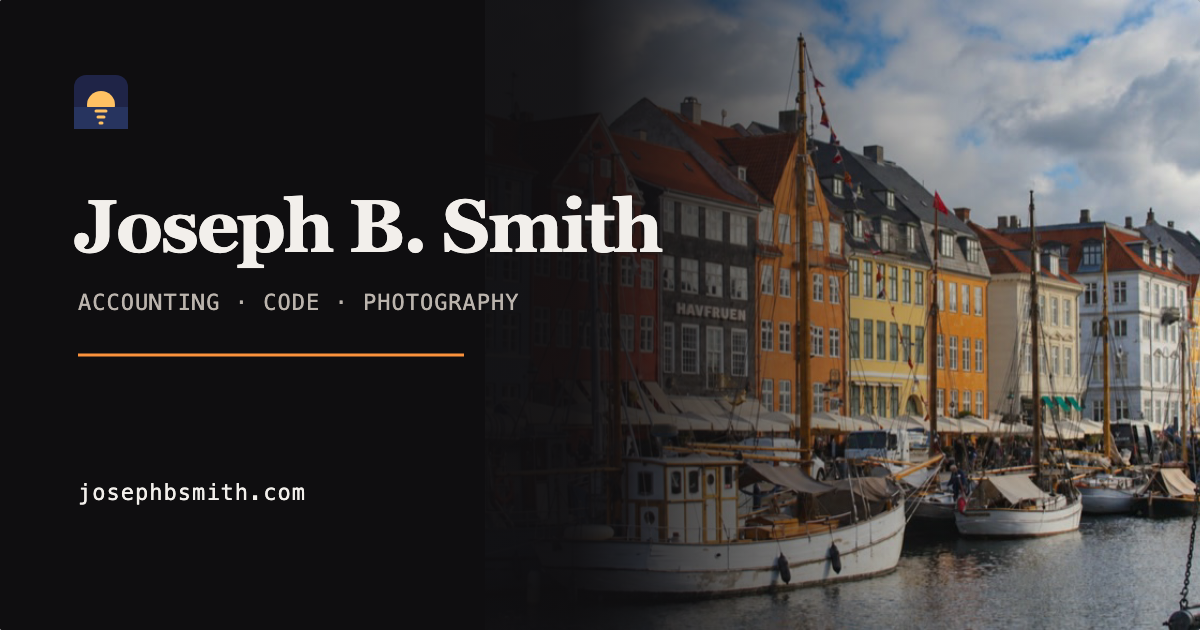
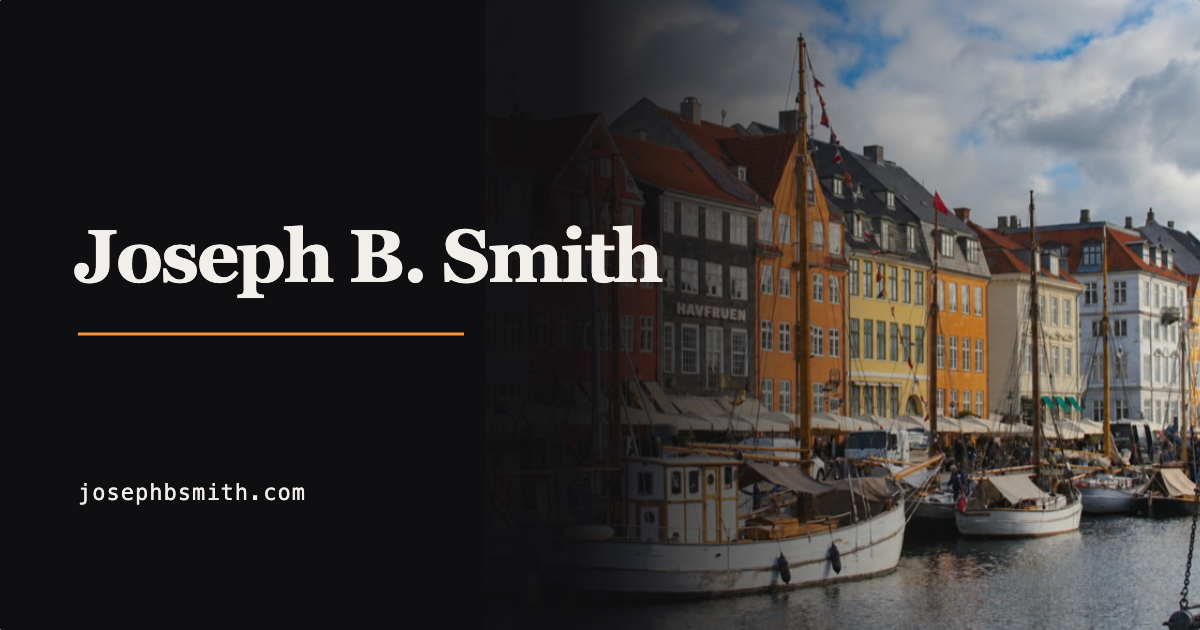
Simplify social preview card

Changed region(s): [[0.0617, 0.3016, 0.555, 0.573], [0.0617, 0.1206, 0.1233, 0.2111]]

diff --git a/ratetest.html b/ratetest.html
@@ -1,4 +1,4 @@
-<!doctype html><html lang="en"><head><meta charset="utf-8"><meta name="viewport" content="width=device-width,initial-scale=1"><title>RateTest - Joseph B. Smith</title><meta name="description" content="Executable, synthetic tests for payer-contract mathematics."><meta property="og:title" content="RateTest - Joseph B. Smith"><meta property="og:description" content="Executable, synthetic tests for payer-contract mathematics."><meta property="og:type" content="website"><meta property="og:url" content="https://josephbsmith.com/ratetest"><meta property="og:image" content="https://josephbsmith.com/og-card.png"><meta name="twitter:card" content="summary_large_image"><link rel="canonical" href="https://josephbsmith.com/ratetest"><link rel="stylesheet" href="/tool.css"><link rel="icon" href="/favicon.svg" type="image/svg+xml"><link rel="apple-touch-icon" href="/apple-touch-icon.png" sizes="180x180"><meta name="theme-color" content="#0f0e10"></head><body><main>
+<!doctype html><html lang="en"><head><meta charset="utf-8"><meta name="viewport" content="width=device-width,initial-scale=1"><title>RateTest - Joseph B. Smith</title><meta name="description" content="Executable, synthetic tests for payer-contract mathematics."><meta property="og:title" content="RateTest - Joseph B. Smith"><meta property="og:description" content="Executable, synthetic tests for payer-contract mathematics."><meta property="og:type" content="website"><meta property="og:url" content="https://josephbsmith.com/ratetest"><meta property="og:image" content="https://josephbsmith.com/og-card-formal.png"><meta name="twitter:card" content="summary_large_image"><link rel="canonical" href="https://josephbsmith.com/ratetest"><link rel="stylesheet" href="/tool.css"><link rel="icon" href="/favicon.svg" type="image/svg+xml"><link rel="apple-touch-icon" href="/apple-touch-icon.png" sizes="180x180"><meta name="theme-color" content="#0f0e10"></head><body><main>
 <a class="back" href="/code/">← code</a><h1>RateTest</h1><p class="tag">Payer-contract mathematics as executable tests</p><p class="lede">Choose a non-proprietary rate method, change the synthetic terms, and see the expected allowed amount with its calculation. The repository carries twenty conformance cases across five methods.</p>
 <h2>Try a case</h2><div class="grid"><label>Method<select id="method"><option value="case">Case rate</option><option value="diem" selected>Per diem</option><option value="percent">Percent of charge</option><option value="stop">Stop-loss add-on</option></select></label><label id="aLabel"><span>Daily rate ($)</span><input id="a" type="number" step="0.01" value="500"></label><label id="bLabel"><span>Days</span><input id="b" type="number" step="1" value="3"></label><label id="cLabel" hidden><span>Excess percentage</span><input id="c" type="number" step="0.01" value="0.5"></label></div><button id="calculate">Calculate</button><div class="panel"><span class="label">Expected allowed amount</span><span class="metric" id="allowed">$1,500.00</span><p id="rateSteps" class="status">3 days × $500.00</p></div>
 <h2>Run the conformance suite</h2><pre>python3 ratetest.py verify

diff --git a/workpaperdiff.html b/workpaperdiff.html
@@ -1,4 +1,4 @@
-<!doctype html><html lang="en"><head><meta charset="utf-8"><meta name="viewport" content="width=device-width,initial-scale=1"><title>WorkpaperDiff - Joseph B. Smith</title><meta name="description" content="Compare two Excel workpapers for accounting logic, not cell noise."><meta property="og:title" content="WorkpaperDiff - Joseph B. Smith"><meta property="og:description" content="Compare two Excel workpapers for accounting logic, not cell noise."><meta property="og:type" content="website"><meta property="og:url" content="https://josephbsmith.com/workpaperdiff"><meta property="og:image" content="https://josephbsmith.com/og-card.png"><meta name="twitter:card" content="summary_large_image"><link rel="canonical" href="https://josephbsmith.com/workpaperdiff"><link rel="stylesheet" href="/tool.css"><link rel="icon" href="/favicon.svg" type="image/svg+xml"><link rel="apple-touch-icon" href="/apple-touch-icon.png" sizes="180x180"><meta name="theme-color" content="#0f0e10"></head><body><main>
+<!doctype html><html lang="en"><head><meta charset="utf-8"><meta name="viewport" content="width=device-width,initial-scale=1"><title>WorkpaperDiff - Joseph B. Smith</title><meta name="description" content="Compare two Excel workpapers for accounting logic, not cell noise."><meta property="og:title" content="WorkpaperDiff - Joseph B. Smith"><meta property="og:description" content="Compare two Excel workpapers for accounting logic, not cell noise."><meta property="og:type" content="website"><meta property="og:url" content="https://josephbsmith.com/workpaperdiff"><meta property="og:image" content="https://josephbsmith.com/og-card-formal.png"><meta name="twitter:card" content="summary_large_image"><link rel="canonical" href="https://josephbsmith.com/workpaperdiff"><link rel="stylesheet" href="/tool.css"><link rel="icon" href="/favicon.svg" type="image/svg+xml"><link rel="apple-touch-icon" href="/apple-touch-icon.png" sizes="180x180"><meta name="theme-color" content="#0f0e10"></head><body><main>
 <a class="back" href="/code/">← code</a><h1>WorkpaperDiff</h1><p class="tag">What changed in the accounting logic?</p>
 <p class="lede">Ordinary spreadsheet diffs drown reviewers in changed values and formatting. WorkpaperDiff reads the XLSX package directly and elevates changes that matter to a close: formulas replaced by hardcodes, formula edits, stale dates, broken prior-period links, changed controls, and unexplained new rows.</p>
 <h2>A sample review</h2><div class="grid"><div class="panel"><span class="metric">7</span><span class="label">review findings</span></div><div class="panel"><span class="metric">2</span><span class="label">high-risk logic changes</span></div><div class="panel"><span class="metric">1</span><span class="label">presentation-only edit</span></div></div>

diff --git a/plusfive.html b/plusfive.html
@@ -1,4 +1,4 @@
-<!doctype html><html lang="en"><head><meta charset="utf-8"><meta name="viewport" content="width=device-width,initial-scale=1,viewport-fit=cover"><title>PlusFive - Joseph B. Smith</title><meta name="description" content="A private, offline logbook for the Starting Strength novice progression. Everything is stored on your device; nothing is uploaded."><meta property="og:title" content="PlusFive - Joseph B. Smith"><meta property="og:description" content="A private, offline logbook for the Starting Strength novice progression."><meta property="og:type" content="website"><meta property="og:url" content="https://josephbsmith.com/plusfive"><meta property="og:image" content="https://josephbsmith.com/og-card.png"><meta name="twitter:card" content="summary_large_image"><link rel="canonical" href="https://josephbsmith.com/plusfive"><link rel="stylesheet" href="/tool.css"><link rel="manifest" href="/plusfive.webmanifest"><link rel="icon" href="/plusfive-icon.png" type="image/png"><link rel="apple-touch-icon" href="/plusfive-icon.png"><meta name="theme-color" media="(prefers-color-scheme: light)" content="#0796c2"><meta name="theme-color" media="(prefers-color-scheme: dark)" content="#1b3d55"><style>
+<!doctype html><html lang="en"><head><meta charset="utf-8"><meta name="viewport" content="width=device-width,initial-scale=1,viewport-fit=cover"><title>PlusFive - Joseph B. Smith</title><meta name="description" content="A private, offline logbook for the Starting Strength novice progression. Everything is stored on your device; nothing is uploaded."><meta property="og:title" content="PlusFive - Joseph B. Smith"><meta property="og:description" content="A private, offline logbook for the Starting Strength novice progression."><meta property="og:type" content="website"><meta property="og:url" content="https://josephbsmith.com/plusfive"><meta property="og:image" content="https://josephbsmith.com/og-card-formal.png"><meta name="twitter:card" content="summary_large_image"><link rel="canonical" href="https://josephbsmith.com/plusfive"><link rel="stylesheet" href="/tool.css"><link rel="manifest" href="/plusfive.webmanifest"><link rel="icon" href="/plusfive-icon.png" type="image/png"><link rel="apple-touch-icon" href="/plusfive-icon.png"><meta name="theme-color" media="(prefers-color-scheme: light)" content="#0796c2"><meta name="theme-color" media="(prefers-color-scheme: dark)" content="#1b3d55"><style>
 /* Light blue-book palette with system typography and restrained app chrome. */
 :root{color-scheme:light;--bg:#b9e4f1;--fg:#142e3e;--muted:#567889;--rule:#8ccddd;--panel:#cfeef6;--client:#eaf7fb;--accent:#0796c2;--accent-dark:#066f91;--ui:-apple-system,BlinkMacSystemFont,"Segoe UI",Roboto,Helvetica,Arial,sans-serif}
 body{font:14px/1.45 var(--ui);padding:4vh 16px 8vh}

diff --git a/claimbench.html b/claimbench.html
@@ -1,4 +1,4 @@
-<!doctype html><html lang="en"><head><meta charset="utf-8"><meta name="viewport" content="width=device-width,initial-scale=1"><title>ClaimBench - Joseph B. Smith</title><meta name="description" content="Synthetic claim-to-cash accounting fixtures with authoritative expected states."><meta property="og:title" content="ClaimBench - Joseph B. Smith"><meta property="og:description" content="Synthetic claim-to-cash accounting fixtures with authoritative expected states."><meta property="og:type" content="website"><meta property="og:url" content="https://josephbsmith.com/claimbench"><meta property="og:image" content="https://josephbsmith.com/og-card.png"><meta name="twitter:card" content="summary_large_image"><link rel="canonical" href="https://josephbsmith.com/claimbench"><link rel="stylesheet" href="/tool.css"><link rel="icon" href="/favicon.svg" type="image/svg+xml"><link rel="apple-touch-icon" href="/apple-touch-icon.png" sizes="180x180"><meta name="theme-color" content="#0f0e10"></head><body><main>
+<!doctype html><html lang="en"><head><meta charset="utf-8"><meta name="viewport" content="width=device-width,initial-scale=1"><title>ClaimBench - Joseph B. Smith</title><meta name="description" content="Synthetic claim-to-cash accounting fixtures with authoritative expected states."><meta property="og:title" content="ClaimBench - Joseph B. Smith"><meta property="og:description" content="Synthetic claim-to-cash accounting fixtures with authoritative expected states."><meta property="og:type" content="website"><meta property="og:url" content="https://josephbsmith.com/claimbench"><meta property="og:image" content="https://josephbsmith.com/og-card-formal.png"><meta name="twitter:card" content="summary_large_image"><link rel="canonical" href="https://josephbsmith.com/claimbench"><link rel="stylesheet" href="/tool.css"><link rel="icon" href="/favicon.svg" type="image/svg+xml"><link rel="apple-touch-icon" href="/apple-touch-icon.png" sizes="180x180"><meta name="theme-color" content="#0f0e10"></head><body><main>
 <a class="back" href="/code/">← code</a><h1>ClaimBench</h1><p class="tag">Test claim accounting without touching patient data</p>
 <p class="lede">Ten synthetic claim-to-cash fixtures define each event, the balanced journal entry, and the expected subledger state afterward. Revenue-cycle software, classroom exercises, and internal tools can be tested against one public answer key.</p>
 <h2>Clean payment, event by event</h2><div id="claimSteps" class="grid"></div><div class="panel"><span class="label">Expected subledger after selected event</span><pre id="claimState"></pre></div>

diff --git a/index.html b/index.html
@@ -4,19 +4,19 @@
 <meta charset="utf-8">
 <meta name="viewport" content="width=device-width, initial-scale=1">
 <title>Joseph B. Smith</title>
-<meta name="description" content="Staff practice accountant in oncology revenue. Code and photography projects.">
+<meta name="description" content="The personal website and selected work of Joseph B. Smith.">
 <meta property="og:title" content="Joseph B. Smith">
-<meta property="og:description" content="Staff practice accountant in oncology revenue. Code and photography projects.">
+<meta property="og:description" content="The personal website and selected work of Joseph B. Smith.">
 <meta property="og:type" content="website">
 <meta property="og:url" content="https://josephbsmith.com/">
-<meta property="og:image" content="https://josephbsmith.com/og-card.png">
+<meta property="og:image" content="https://josephbsmith.com/og-card-formal.png">
 <meta property="og:image:width" content="1200">
 <meta property="og:image:height" content="630">
-<meta property="og:image:alt" content="Joseph B. Smith — accounting, code, and photography">
+<meta property="og:image:alt" content="Joseph B. Smith with a photograph of Nyhavn harbor.">
 <meta name="twitter:card" content="summary_large_image">
 <meta name="twitter:title" content="Joseph B. Smith">
-<meta name="twitter:description" content="Staff practice accountant in oncology revenue. Code and photography projects.">
-<meta name="twitter:image" content="https://josephbsmith.com/og-card.png">
+<meta name="twitter:description" content="The personal website and selected work of Joseph B. Smith.">
+<meta name="twitter:image" content="https://josephbsmith.com/og-card-formal.png">
 <link rel="icon" href="/favicon.svg" type="image/svg+xml">
 <link rel="icon" href="/icon-192.png" sizes="192x192" type="image/png">
 <link rel="apple-touch-icon" href="/apple-touch-icon.png" sizes="180x180">

diff --git a/pit-wall.html b/pit-wall.html
@@ -10,7 +10,7 @@
 <meta property="og:description" content="Timing, pace, strategy, telemetry, radio, and championship position in one Formula 1 session workstation.">
 <meta property="og:url" content="https://josephbsmith.com/pit-wall">
 <meta property="og:type" content="website">
-<meta property="og:image" content="https://josephbsmith.com/og-card.png">
+<meta property="og:image" content="https://josephbsmith.com/og-card-formal.png">
 <meta name="twitter:card" content="summary_large_image">
 <link rel="icon" href="/favicon.svg" type="image/svg+xml">
 <link rel="apple-touch-icon" href="/apple-touch-icon.png" sizes="180x180">

diff --git a/ancestry/index.html b/ancestry/index.html
@@ -10,7 +10,7 @@
 <meta property="og:description" content="A linked family edition with archival records, maps, photographs, and source references.">
 <meta property="og:url" content="https://josephbsmith.com/ancestry">
 <meta property="og:type" content="website">
-<meta property="og:image" content="https://josephbsmith.com/og-card.png">
+<meta property="og:image" content="https://josephbsmith.com/og-card-formal.png">
 <meta property="og:image:width" content="1200">
 <meta property="og:image:height" content="630">
 <meta name="twitter:card" content="summary_large_image">

diff --git a/code/index.html b/code/index.html
@@ -9,7 +9,7 @@
 <meta property="og:description" content="Software, data tools, and interactive projects by Joseph B. Smith.">
 <meta property="og:type" content="website">
 <meta property="og:url" content="https://josephbsmith.com/code/">
-<meta property="og:image" content="https://josephbsmith.com/og-card.png">
+<meta property="og:image" content="https://josephbsmith.com/og-card-formal.png">
 <meta property="og:image:width" content="1200">
 <meta property="og:image:height" content="630">
 <meta name="twitter:card" content="summary_large_image">
